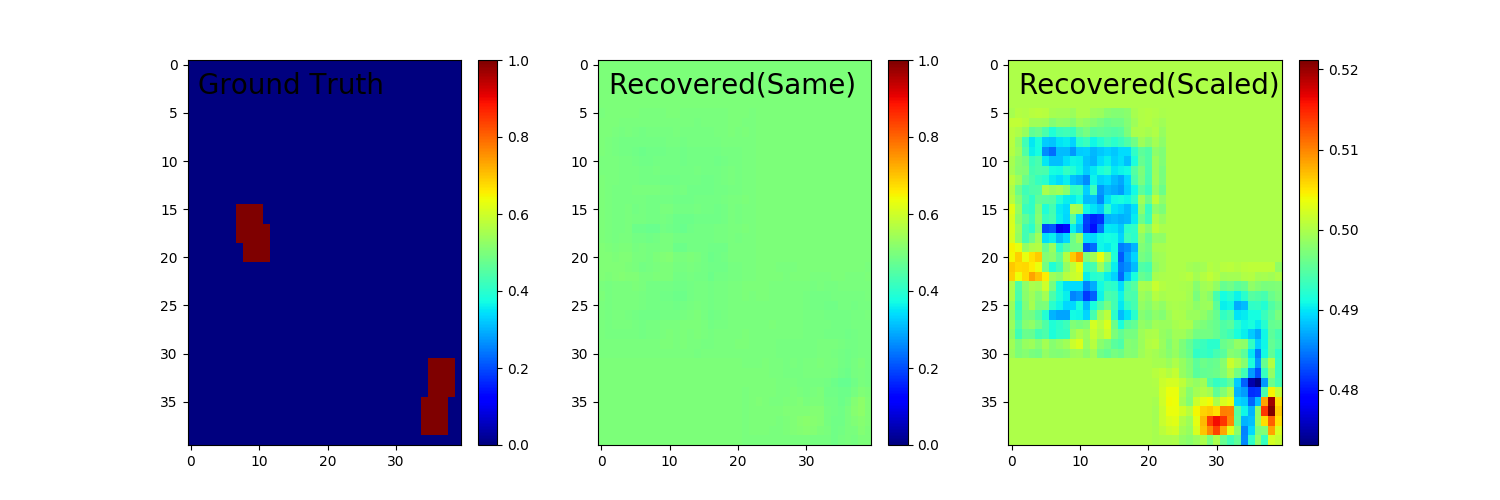
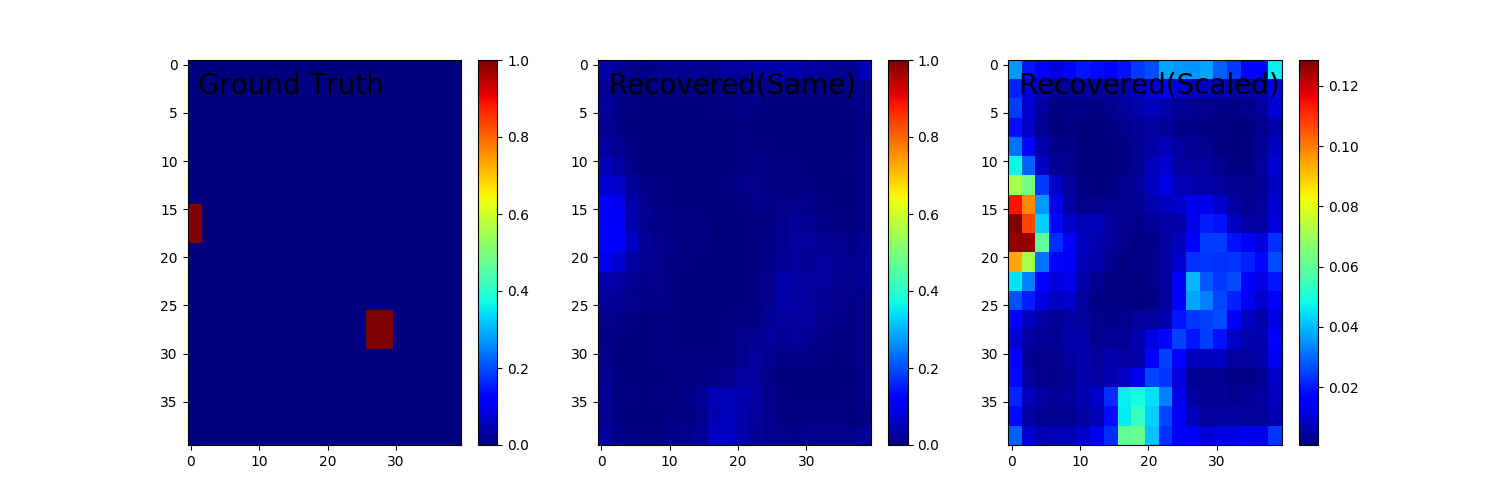
add crzy large convlstm

diff --git a/convlstm_ae/convlstm_autoencoder.py b/convlstm_ae/convlstm_autoencoder.py
@@ -14,6 +14,7 @@ from keras.layers.convolutional_recurrent import ConvLSTM2D
 from keras.layers.normalization import BatchNormalization
 from keras.callbacks import TensorBoard
 from keras.optimizers import RMSprop
+from keras import backend as K
 import os
 import sys
 import numpy as np
@@ -26,9 +27,9 @@ import cv2
 import numpy as np
 
 LOG_DIR = "../../tensorboard/log/"
-EPOCH = 500
+EPOCH = 5
 sequenceLength = 15
-
+setup_name = "conv_16_8_lstm_800"
 
 
 # seq = Sequential()
@@ -73,20 +74,20 @@ def generate_movies(n_samples=10000, n_frames=15):
 
     for i in range(n_samples):
         # Add 1 to 4 moving squares
-        n = np.random.randint(1, 5)
+        # n = np.random.randint(1, 5)
 
         # Add 3 to 7 moving squares
-        # n = np.random.randint(3, 8)
+        n = np.random.randint(3, 8)
 
         for j in range(n):
             # Initial position
             xstart = np.random.randint(20, 60)
             ystart = np.random.randint(20, 60)
             # Direction of motion
-            directionx = 0
-            # directionx = np.random.randint(0, 3) - 1
-            directiony = 0
-            # directiony = np.random.randint(0, 3) - 1
+            # directionx = 0
+            directionx = np.random.randint(0, 3) - 1
+            # directiony = 0
+            directiony = np.random.randint(0, 3) - 1
 
             # Size of the square
             # w = np.random.randint(2, 4)
@@ -122,6 +123,11 @@ def generate_movies(n_samples=10000, n_frames=15):
     noisy_movies[noisy_movies >= 1] = 1
     shifted_movies[shifted_movies >= 1] = 1
     return noisy_movies, shifted_movies
+
+def DenseNetwork(inputs):
+    x = Dense(5, activation='relu')(inputs)
+    x = Dense(1, activation='sigmoid')(x)
+    return x
 
 def MyCNNthenDeCNN(inputs):
     x = Conv2D(32, (3, 3), activation='relu', padding='same')(inputs)
@@ -160,9 +166,35 @@ def main(num_epochs=EPOCH):
     inputs = Input(shape=(sequenceLength,40,40,1))
 
     # conved = TimeDistributed(Lambda(MyCNN), input_shape=(sequenceLength,40,40,1)) (inputs)
+ 
+    x = TimeDistributed(Conv2D(16, (3, 3), padding='same'), input_shape=(sequenceLength,40,40,1))(inputs)
+    x = TimeDistributed(MaxPooling2D((2, 2)))(x)
+    x = TimeDistributed(Conv2D(8, (3, 3), padding='same'))(x)
+    x = TimeDistributed(MaxPooling2D((2, 2)))(x)
+    
+    x = TimeDistributed(Flatten())(x)
+    # x = Reshape((15,10*10*4))(x)
 
-    # x = TimeDistributed(Conv2D(16, (3, 3)), input_shape=(sequenceLength,40,40,1))(inputs)
-    # conved = TimeDistributed(MaxPooling2D((2, 2)), input_shape=(sequenceLength,40,40,1))(x)
+    # x = LSTM(400, activation='tanh', return_sequences=True)(x)
+    x = LSTM(800, activation='tanh')(x)
+    print(K.int_shape(x))
+
+    x = RepeatVector(15)(x)
+    print(K.int_shape(x))
+
+    x = LSTM(800, activation='tanh', return_sequences=True)(x)
+    print(K.int_shape(x))
+
+    # x = Reshape((15,10,10,4))(x)
+    x = TimeDistributed(Reshape((10,10,8)))(x)
+    
+    x = TimeDistributed(Conv2D(8, (3, 3), padding='same'))(x)
+    x = TimeDistributed(UpSampling2D((2, 2)))(x)
+    x = TimeDistributed(Conv2D(16, (3, 3), padding='same'))(x)
+    x = TimeDistributed(UpSampling2D((2, 2)))(x)
+
+    # deconved = TimeDistributed(Conv2D(1, (3, 3), padding='same'))(x)
+    deconved = TimeDistributed(Dense(1, activation='sigmoid'))(x)
 
     # conved = TimeDistributed( MyCNN(inputs), input_shape=(sequenceLength,40,40,1) )
     # flat = TimeDistributed(Flatten())(conved)
@@ -183,13 +215,19 @@ def main(num_epochs=EPOCH):
     # x = Reshape((sequenceLength,10,10,8))(flat)
 
     # deconved = TimeDistributed(Lambda(MyDeCNN),input_shape=(sequenceLength,10,10,8))(conved)
-    deconved = TimeDistributed(Lambda(MyCNNthenDeCNN) )(inputs)
+
+    # deconved = Reshape((40,40,1))(deconved)
+
+    # x = TimeDistributed(Dense(5, activation='relu'))(inputs)
+    # deconved = TimeDistributed(Dense(1, activation='sigmoid'))(x)
 
     autoencoder = Model(output=deconved,input=inputs)
-    myoptmizer = RMSprop(lr=0.1, decay=1e-4)
+    # myoptmizer = RMSprop(lr=0.1, decay=1e-4)
     # autoencoder.compile(loss='mean_squared_error', optimizer=myoptmizer)
     autoencoder.compile(loss='mean_squared_error', optimizer='RMSprop')
     plot_model(autoencoder, to_file='model.png', show_shapes=True)
+
+    print('--- Finish Compile and Plot Model ---')
 
     ###################################
     # Training
@@ -198,11 +236,11 @@ def main(num_epochs=EPOCH):
     # Train the network
     noisy_movies, shifted_movies = generate_movies(n_samples=10000)
     # seq.fit(noisy_movies[:1000], shifted_movies[:1000], 
-    autoencoder.fit(shifted_movies[:9500], shifted_movies[:9500], 
-            batch_size=10,
+    autoencoder.fit(shifted_movies[:9500], shifted_movies[:9500],
+            batch_size=20,
             epochs=num_epochs, 
             validation_split=0.05,
-            callbacks=[TensorBoard(log_dir=LOG_DIR+'/convlstm_repvec_static_nolstm/epoch_'+str(num_epochs))])
+            callbacks=[TensorBoard(log_dir=LOG_DIR+'/convlstm_'+setup_name+'/epoch_'+str(num_epochs))])
 
     ###################################
     # Predicting
@@ -269,7 +307,7 @@ def main(num_epochs=EPOCH):
         # cv2.putText(img=im, text=str(i), org=(40,80),fontFace=2, fontScale=1, color=(255,0,0), thickness=2)
         images.append(im)
 
-    imageio.mimsave('./result'+'_'+str(num_epochs)+'.gif', images)
+    imageio.mimsave('./result'+'_'+setup_name+'_'+str(num_epochs)+'.gif', images)
 
     # os.system("ffmpeg -f image2 -r 1 -i predict/%05d_animate.png -vcodec mpeg4 -y result.mp4")
 

diff --git a/convlstm_ae/cnn_autoencoder.py b/convlstm_ae/cnn_autoencoder.py
@@ -97,7 +97,7 @@ x_train, noisy_movies = generate_movies(n_samples=10000)
 
 autoencoder.fit(x_train[:9500], x_train[:9500],
                 epochs=200,
-                batch_size=10,
+                batch_size=100,
                 shuffle=True,
                 validation_split=0.05,
                 callbacks=[TensorBoard(log_dir='/tmp/autoencoder')])
